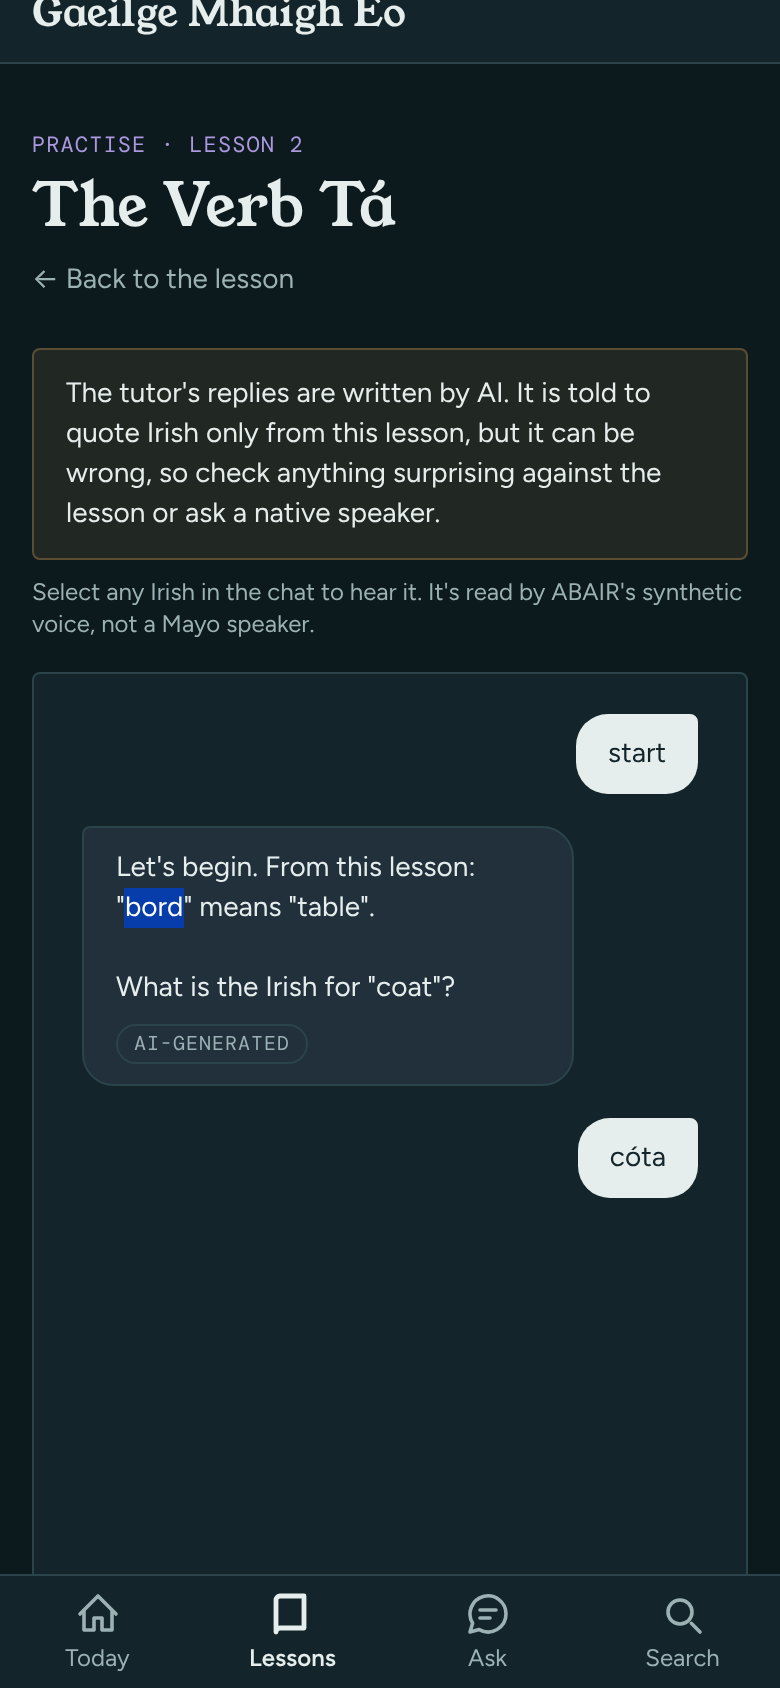
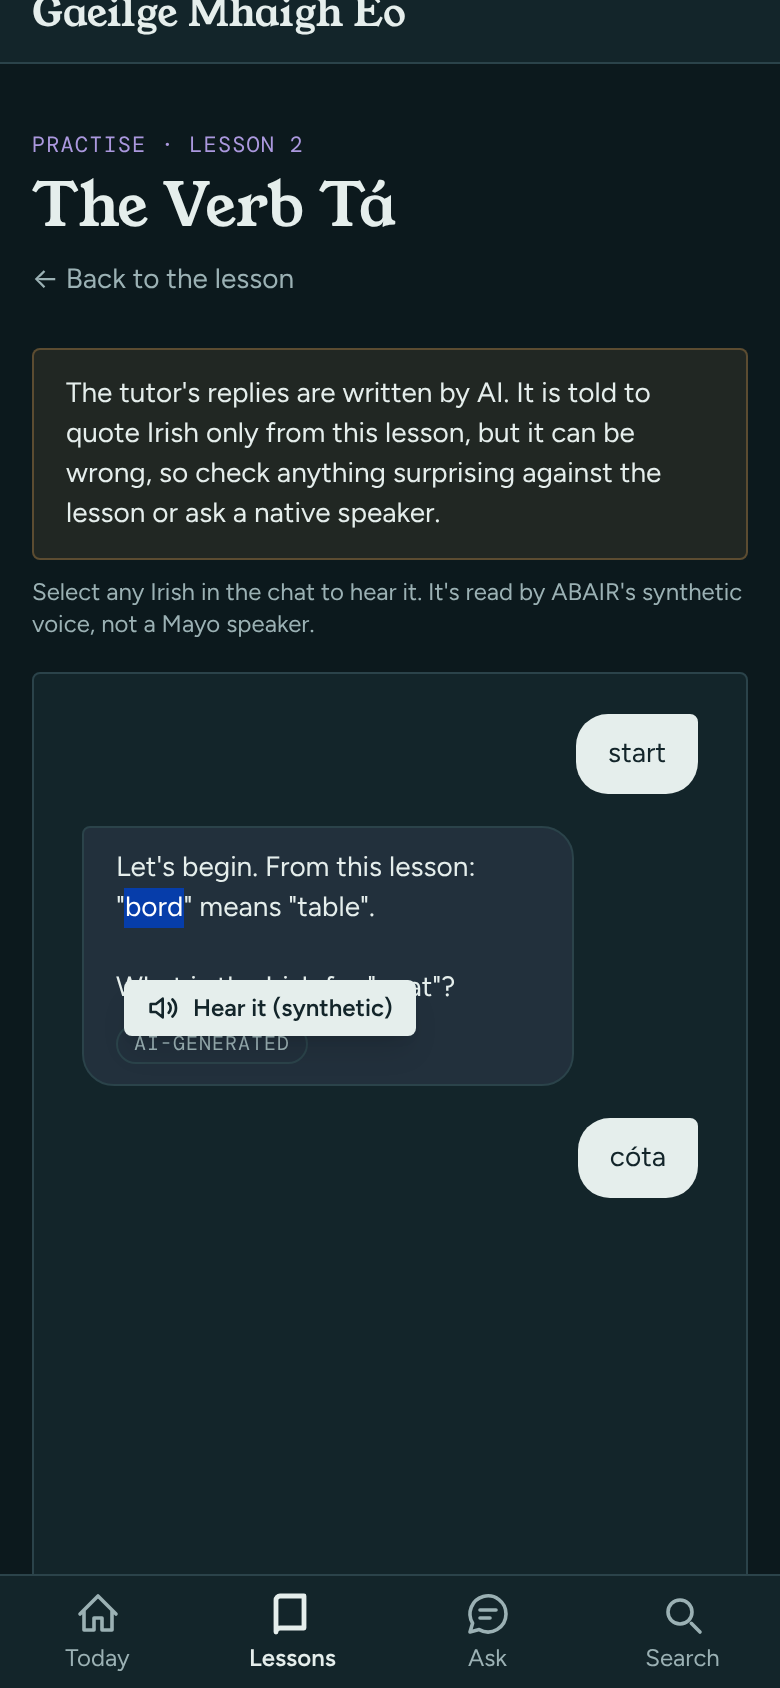
Ignore selections in the chat's answer box by marking the form, not by focus
The answer box is focused when the page opens, so checking focus hid the
button for every selection.

Claude-Session: https://claude.ai/code/session_017wWQS8CKKx4MPcZveq9t5K

Changed region(s): [[0.1538, 0.5545, 0.5538, 0.6161]]

diff --git a/app/javascript/controllers/speakable_controller.js b/app/javascript/controllers/speakable_controller.js
@@ -43,9 +43,7 @@ export default class extends Controller {
   selectionChanged() {
     clearTimeout(this.hideTimer)
     const selection = document.getSelection()
-    // Text selected in a box the learner types in (the tutor chat's answer) isn't read.
-    const typing = document.activeElement?.matches("textarea, input")
-    const text = selection.isCollapsed || typing ? "" : speakableText(selection.toString())
+    const text = selection.isCollapsed || ignored(selection.anchorNode) ? "" : speakableText(selection.toString())
 
     if (text && this.element.contains(selection.anchorNode) && this.element.contains(selection.focusNode)) {
       this.showSelectionButton(text, selection.getRangeAt(0).getBoundingClientRect())
@@ -76,6 +74,13 @@ export default class extends Controller {
     url.searchParams.set("text", text)
     return `${url.pathname}${url.search}`
   }
+}
+
+// Text selected where the learner types (the tutor chat's answer box, marked
+// data-speakable-ignore) isn't read.
+function ignored(node) {
+  const element = node?.nodeType === Node.ELEMENT_NODE ? node : node?.parentElement
+  return Boolean(element?.closest("[data-speakable-ignore]"))
 }
 
 // The selected text to read: without phonetics or the course's section

diff --git a/test/controllers/lesson_chat_controller_test.rb b/test/controllers/lesson_chat_controller_test.rb
@@ -201,6 +201,7 @@ class LessonChatControllerTest < ActionDispatch::IntegrationTest
     assert_select "[data-controller=speakable][data-speakable-src-value=?]", speech_path do
       assert_select "[data-speakable-target=selection] button", text: /Hear it \(synthetic\)/
       assert_select "#chat-messages[data-action=?]", "scroll->speakable#hide"
+      assert_select "form[data-speakable-ignore] textarea"
     end
     assert_select "[data-synthetic-note]", text: /synthetic voice, not a Mayo speaker/
   end
